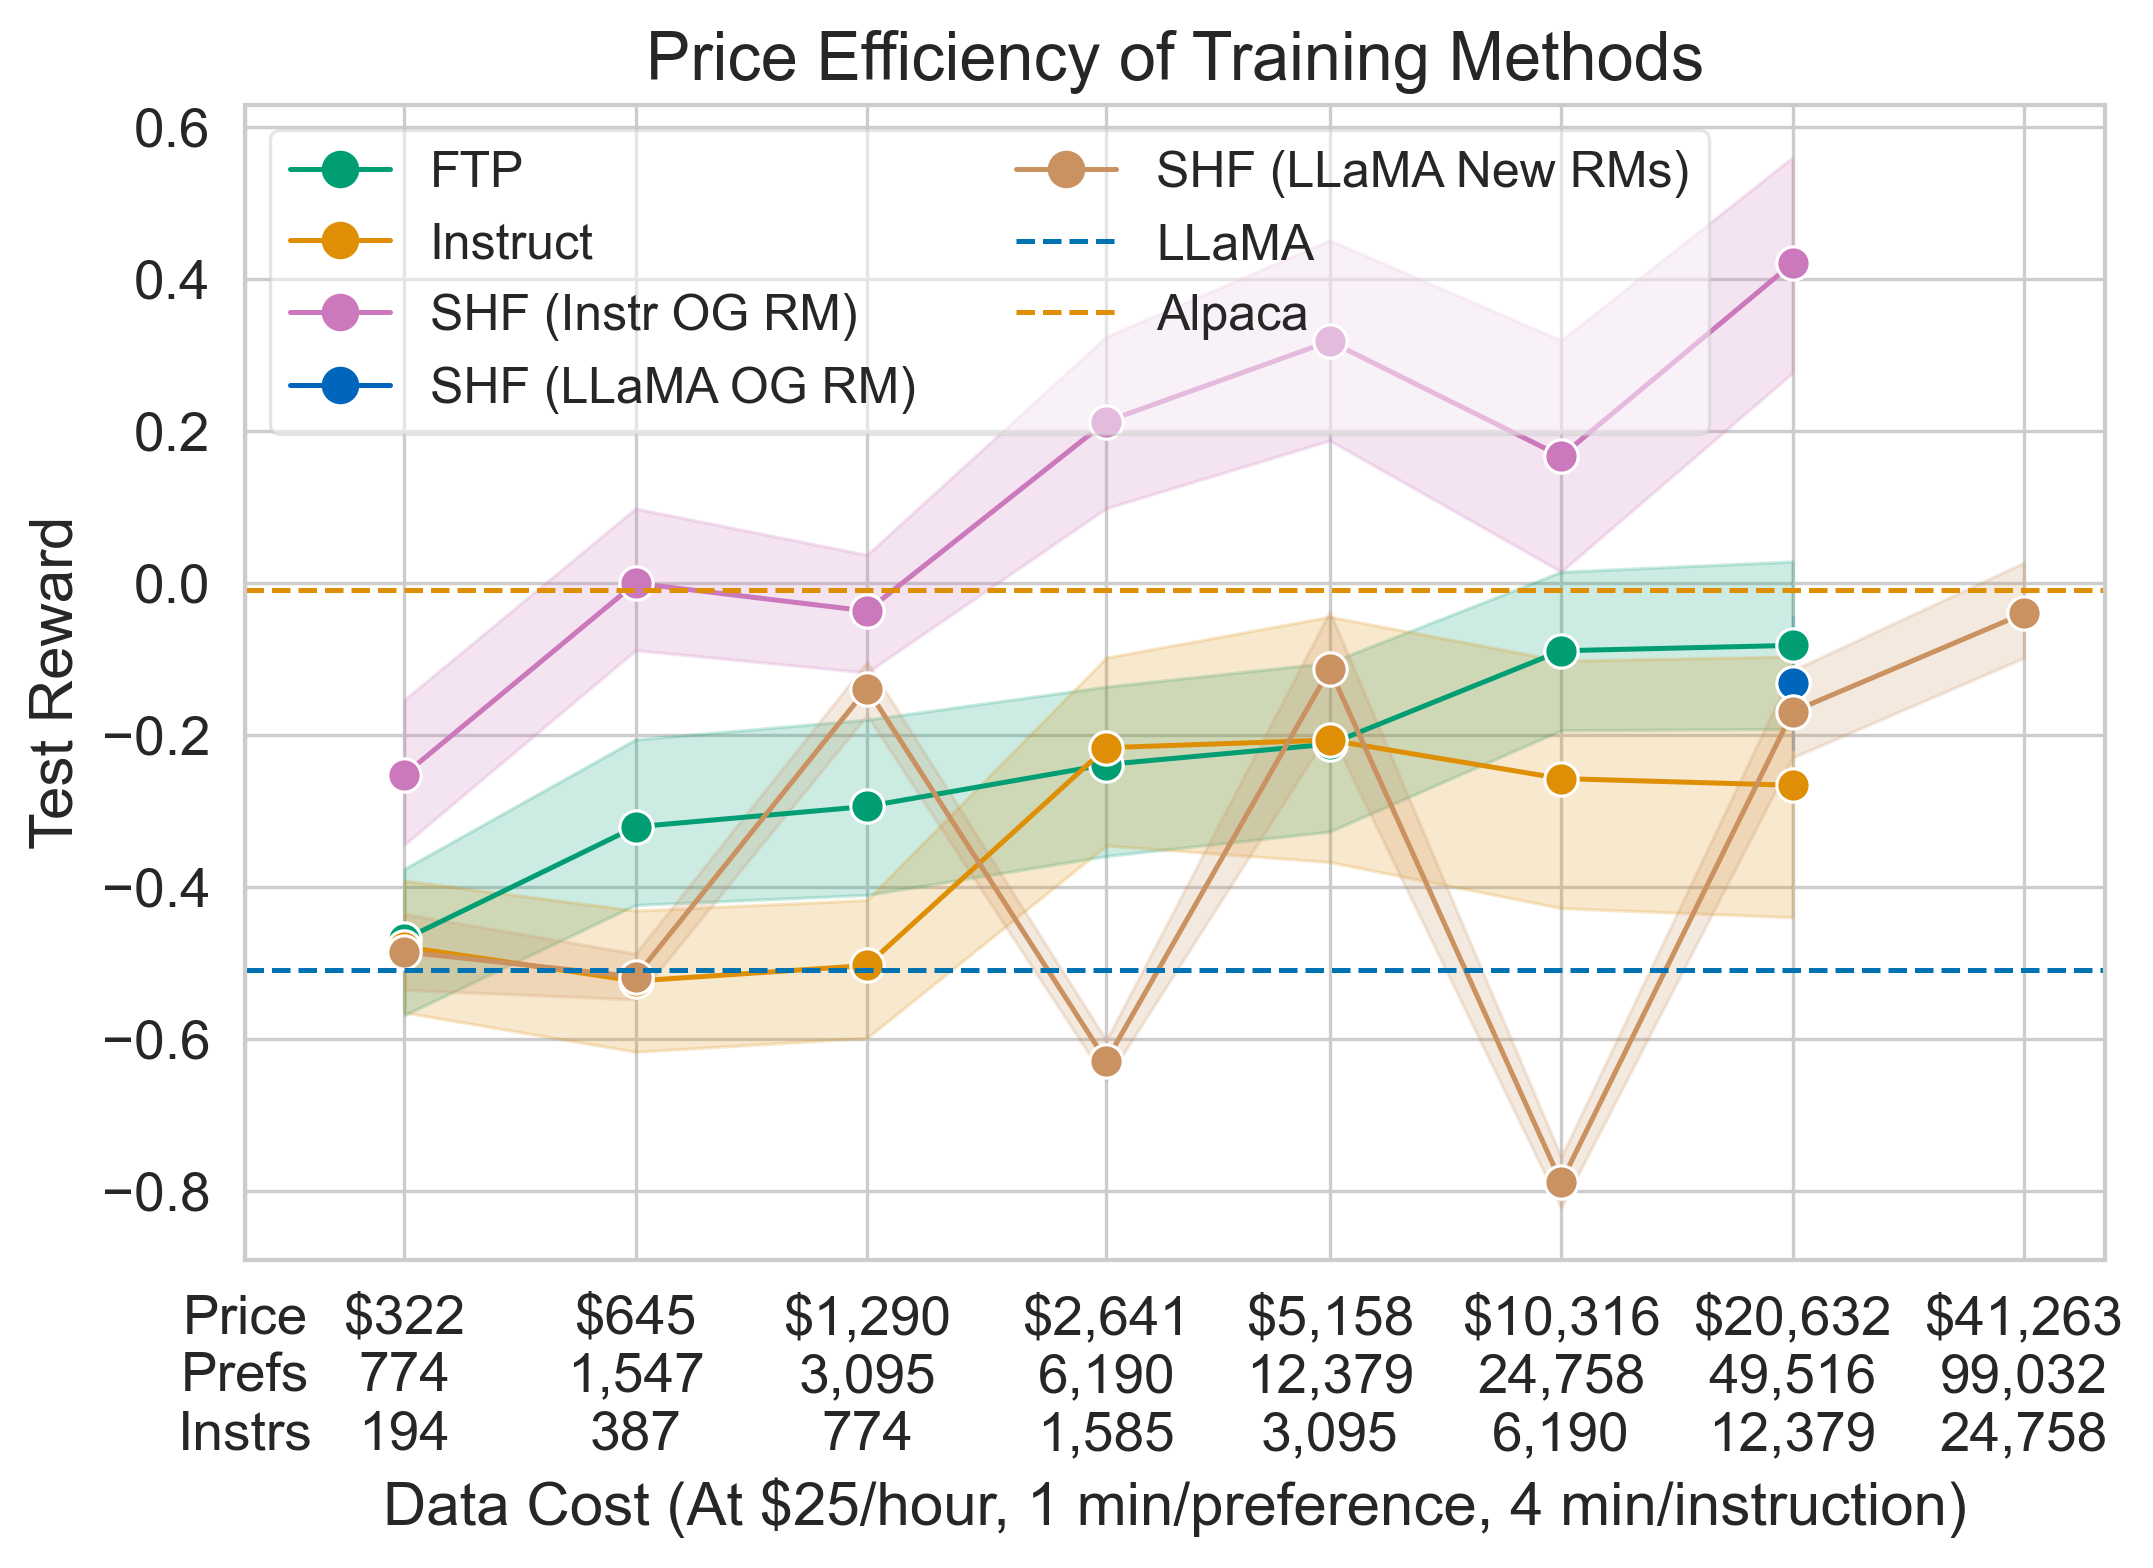
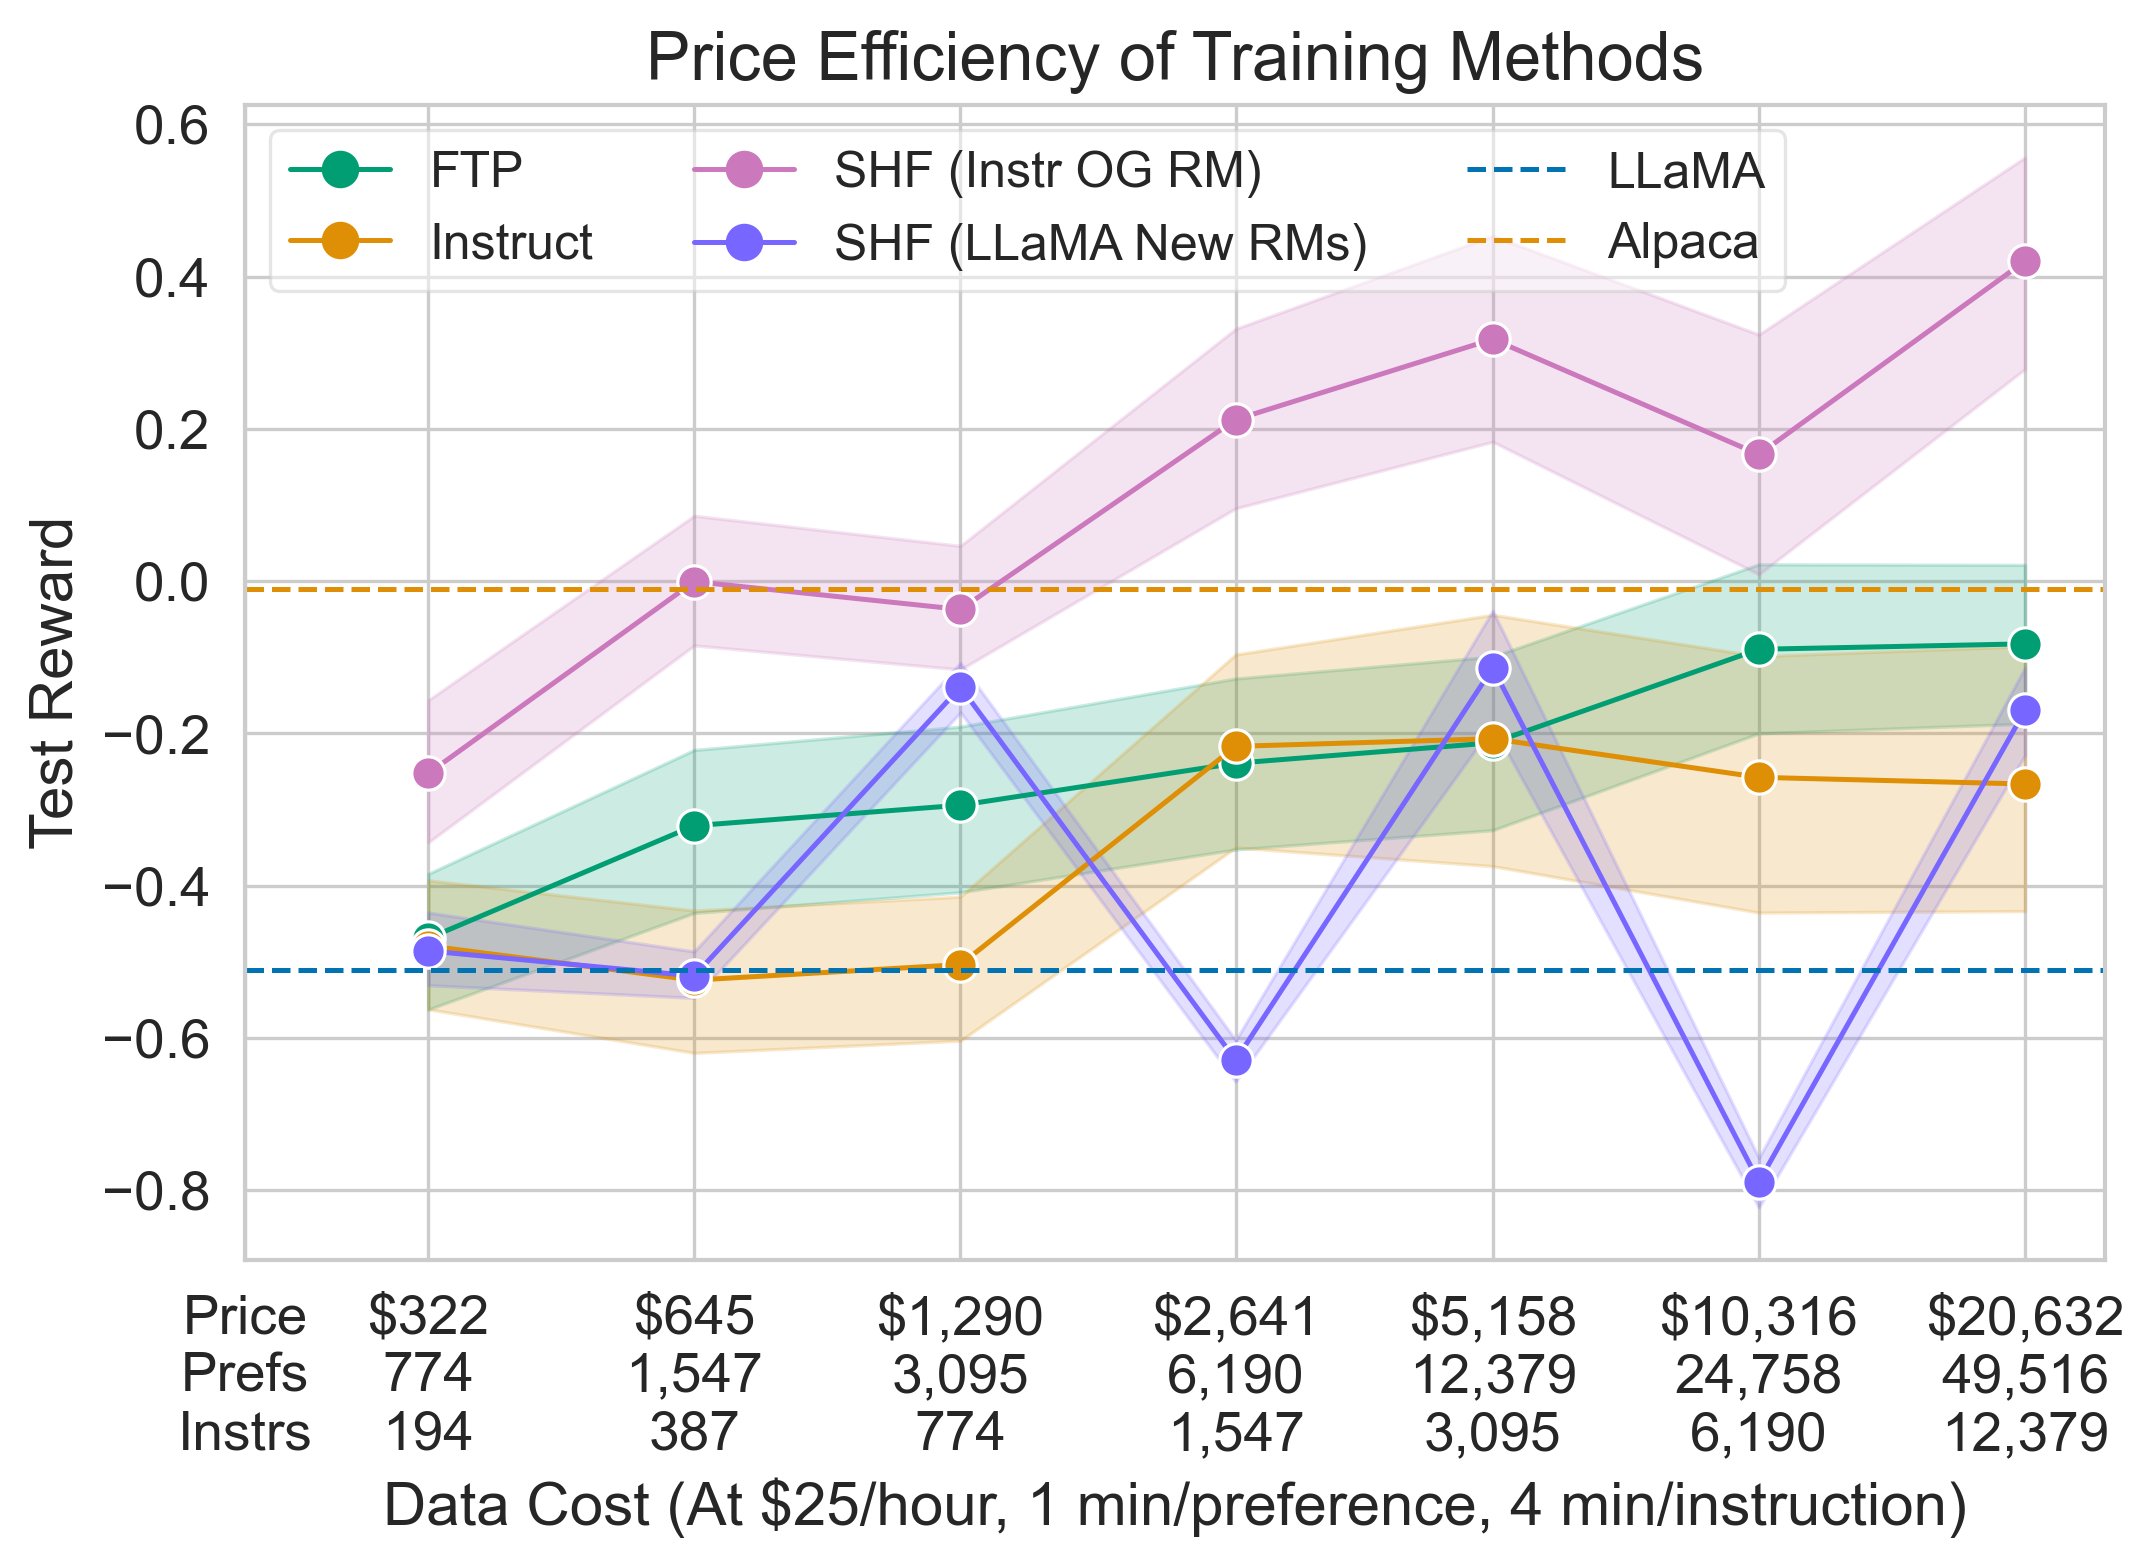
change dollar plot

diff --git a/charts/dollar_costs.py b/charts/dollar_costs.py
@@ -44,11 +44,11 @@ INPUT_FILE_MAP = {
         "./experiments/evaluations/test_scores/shf-v4-llama-instruct-387.json",
         "./experiments/evaluations/test_scores/shf-v4-llama-instruct-194.json",
     ],
-    "SHF (LLaMA OG RM)": [
-        "./experiments/evaluations/test_scores/shf-v4-llama-10000-kl-0.35.json",
-    ],
+    # "SHF (LLaMA OG RM)": [
+    #     "./experiments/evaluations/test_scores/shf-v4-llama-10000-kl-0.35.json",
+    # ],
     "SHF (LLaMA New RMs)": [
-        "./experiments/evaluations/test_scores/shf-v5-llama-base-rm-2.0.json",
+        # "./experiments/evaluations/test_scores/shf-v5-llama-base-rm-2.0.json",
         "./experiments/evaluations/test_scores/shf-v5-llama-base-rm-1.0.json",
         "./experiments/evaluations/test_scores/shf-v5-llama-base-rm-0.5.json",
         "./experiments/evaluations/test_scores/shf-v5-llama-base-rm-0.25.json",
@@ -85,7 +85,7 @@ def main() -> None:
         5157.92,
         10315.83,
         20631.67,
-        41263.33,
+        # 41263.33,
     ]
     pref_number_to_dollar_cost_index = {
         774: 0,
@@ -95,17 +95,17 @@ def main() -> None:
         12379: 4,
         24758: 5,
         49516: 6,
-        99032: 7,
+        # 99032: 7,
     }
     instruct_number_to_dollar_cost_index = {
         194: 0,
         387: 1,
         774: 2,
-        1585: 3,
+        1547: 3,
         3095: 4,
         6190: 5,
         12379: 6,
-        24758: 7,
+        # 24758: 7,
     }
     rm_fraction_to_dollar_cost_index = {
         2.0: 7,
@@ -158,7 +158,7 @@ def main() -> None:
     # Create the plot
     palette = [model_type_to_palette_color(m) for m in dataframe["Model Type"].unique()]
     palette[-1] = model_type_to_palette_color("gpt-4")
-    palette[3] = "#0066bb"
+    palette[3] = "#76f"
     sns.lineplot(
         data=dataframe,
         x="Cost",
@@ -184,7 +184,7 @@ def main() -> None:
         marker="",
     )
     # Smaller more transparent legend
-    plt.legend(ncol=2, fontsize=12, loc="upper left", framealpha=0.5)
+    plt.legend(ncol=3, fontsize=12, loc="upper left", framealpha=0.5)
 
     # Logx
     plt.xscale("log")
